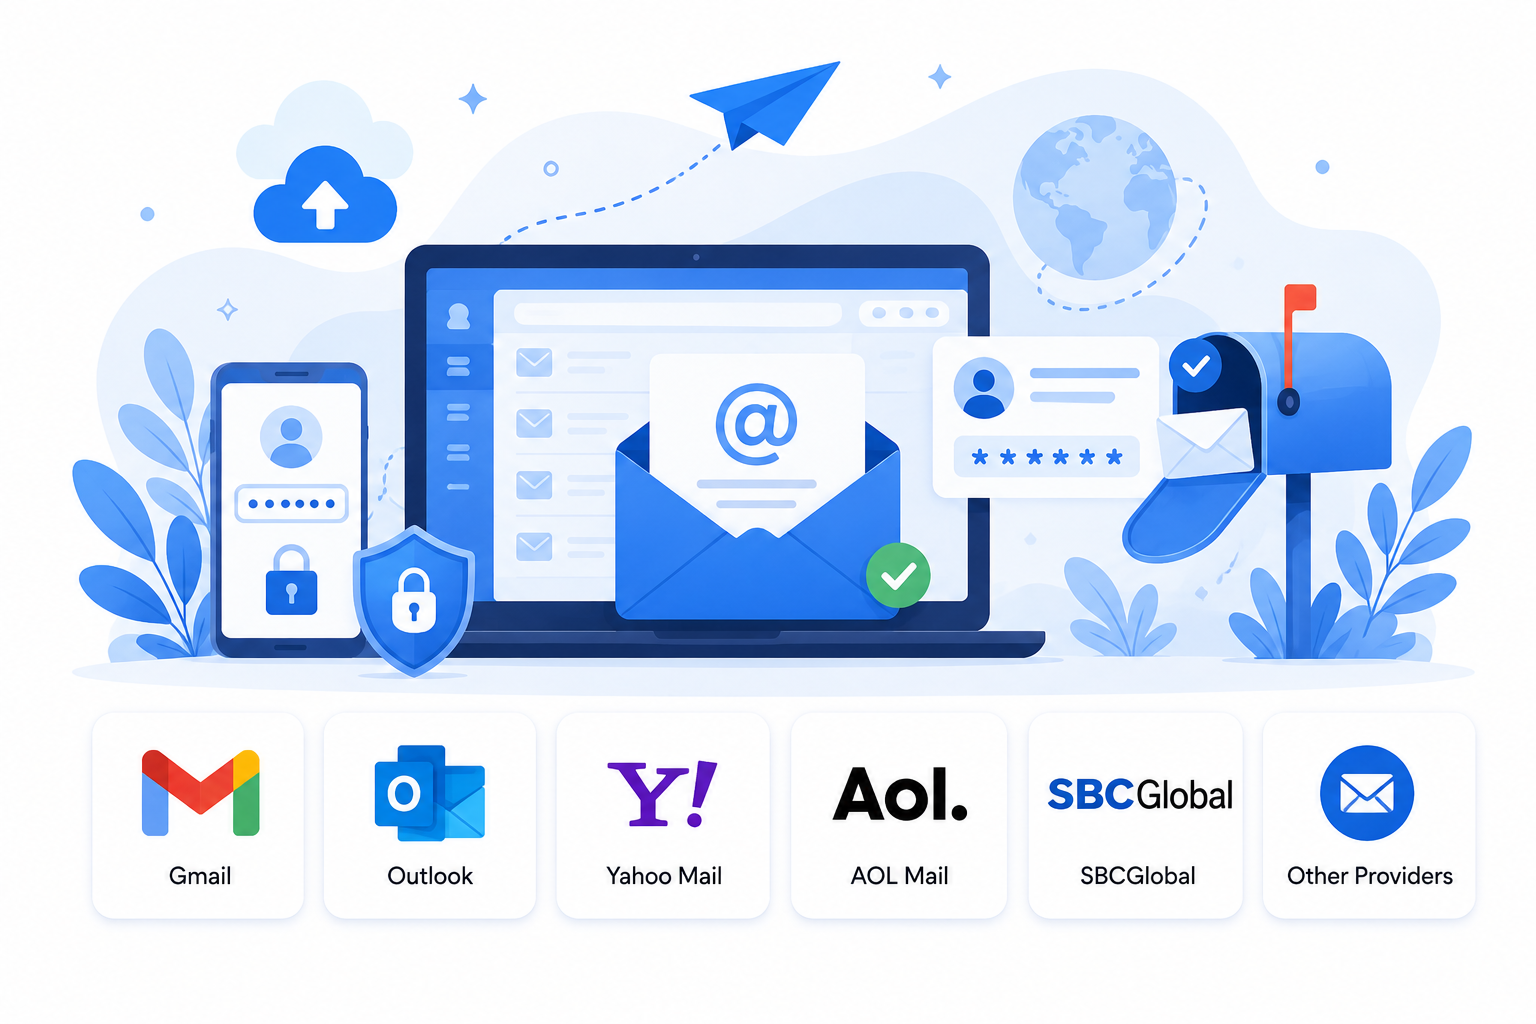
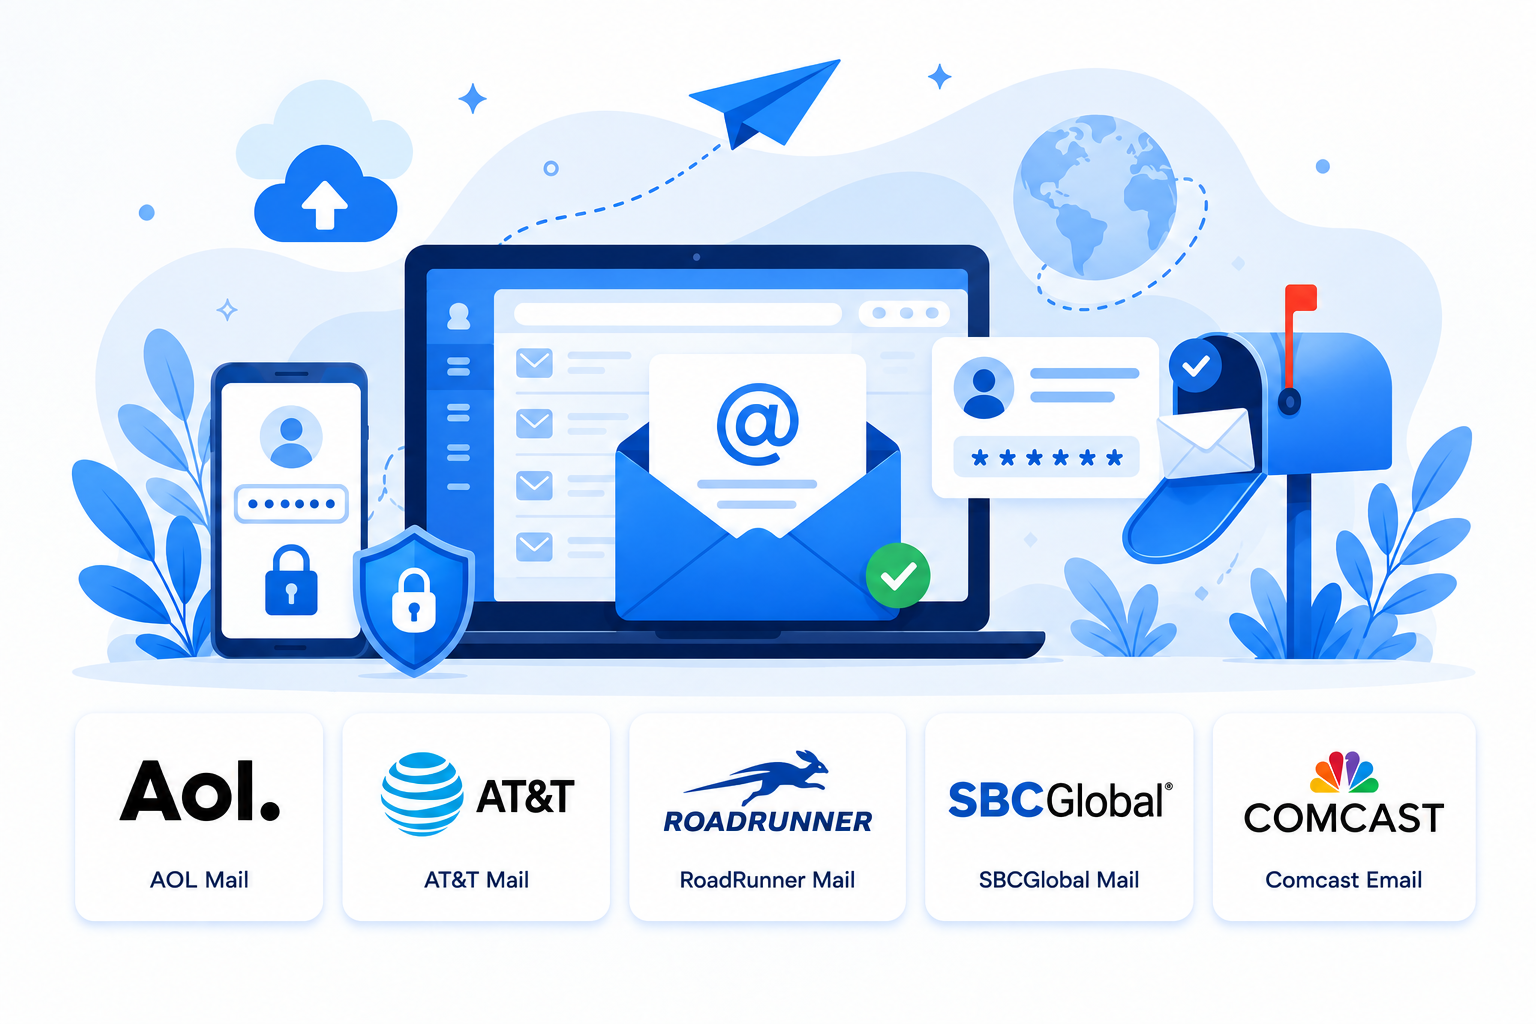
Revamp homepage copy and provider data

diff --git a/components/home/HowItWorks.tsx b/components/home/HowItWorks.tsx
@@ -5,33 +5,41 @@ import React from 'react';
 
 
 import {
+  FileText,
   Search,
-  BookOpen,
-  ShieldCheck,
+  Mail,
+  User,
   ArrowRight,
 } from "lucide-react";
 
 const steps = [
   {
-    number: "01",
+    number: "1",
+    icon: FileText,
+    title: "Describe Your Issue",
+    description:
+      "Tell us what happened and which email provider you use.",
+  },
+  {
+    number: "2",
     icon: Search,
-    title: "Choose Your Email Provider",
+    title: "Expert Reviews Request",
     description:
-      "Select the email provider or topic related to your account issue.",
+      "Our team reviews your case and provides the best solution.",
   },
   {
-    number: "02",
-    icon: BookOpen,
-    title: "Follow the Recovery Guide",
+    number: "3",
+    icon: Mail,
+    title: "Receive Recovery Guidance",
     description:
-      "Read the step-by-step instructions for password reset, login issues, or account recovery.",
+      "Get step-by-step instructions tailored to your situation.",
   },
   {
-    number: "03",
-    icon: ShieldCheck,
-    title: "Secure Your Account",
+    number: "4",
+    icon: User,
+    title: "Regain Access",
     description:
-      "Review recommended security practices to help keep your email account protected.",
+      "Follow the guidance and get back to your account.",
   },
 ];
 
@@ -49,19 +57,18 @@ export default function HowItWorks() {
           </span>
 
           <h2 className="mt-6 text-4xl font-bold text-slate-900 lg:text-5xl">
-            Get Started in Three Simple Steps
+            Getting Back to Your Email Is Simple
           </h2>
 
           <p className="mt-6 text-lg leading-8 text-slate-600">
-            Quickly find the right guidance for recovering access to your email
-            account and improving its security.
+            Follow these 4 easy steps.
           </p>
 
         </div>
 
         {/* Steps */}
 
-        <div className="grid gap-10 lg:grid-cols-3">
+        <div className="grid gap-6 lg:grid-cols-4">
 
           {steps.map((step, index) => {
 
@@ -75,13 +82,13 @@ export default function HowItWorks() {
 
                 {/* Step Number */}
 
-                <div className="absolute right-8 top-8 text-5xl font-extrabold text-blue-100">
+                <div className="absolute left-6 top-0 flex h-9 w-9 items-center justify-center rounded-full bg-blue-600 text-lg font-bold text-white">
                   {step.number}
                 </div>
 
                 {/* Icon */}
 
-                <div className="mb-8 flex h-16 w-16 items-center justify-center rounded-2xl bg-blue-100">
+                <div className="mb-8 flex h-16 w-16 items-center justify-center rounded-full bg-blue-100">
                   <Icon className="text-blue-600" size={30} />
                 </div>
 
@@ -101,10 +108,7 @@ export default function HowItWorks() {
 
                 {index < steps.length - 1 && (
                   <div className="absolute -right-5 top-1/2 hidden -translate-y-1/2 lg:block">
-                    <ArrowRight
-                      size={36}
-                      className="text-blue-300"
-                    />
+                    <ArrowRight size={30} className="text-blue-300" />
                   </div>
                 )}
 

diff --git a/data/providers.ts b/data/providers.ts
@@ -1,50 +1,47 @@
 export const providers = [
   {
     id: 1,
-    slug: "account-recovery",
-    name: "Account Recovery",
-    image: "/images/provider-gmail.png",
+    slug: "aol-mail",
+    name: "AOL Mail",
+    image: "/images/provider-aol.png",
     description:
-      "Learn how to regain access to your email account using official recovery methods.",
+      "Get help with AOL Mail account recovery, password reset, login issues, and email access.",
+    url: "https://sbcmailme.com/aol-mail",
   },
   {
     id: 2,
-    slug: "password-reset",
-    name: "Password Reset",
-    image: "/images/provider-outlook.png",
+    slug: "att-mail",
+    name: "AT&T Mail",
+    image: "/images/provider-att.png",
     description:
-      "Educational guides for resetting your email password safely.",
+      "Find guidance for AT&T Mail login, password recovery, account access, and common email issues.",
+    url: "https://sbcmailme.com/att-mail",
   },
   {
     id: 3,
-    slug: "login-help",
-    name: "Login Help",
-    image: "/images/provider-yahoo.png",
+    slug: "sbc-global-mail",
+    name: "SBCGlobal Mail",
+    image: "/images/provider-sbcglobal.png",
     description:
-      "Help with email sign-in and authentication issues.",
+      "Get assistance with SBCGlobal email login, password recovery, account access, and email problems.",
+    url: "https://sbcmailme.com/sbc-global-mail",
   },
   {
     id: 4,
-    slug: "email-security",
-    name: "Email Security",
-    image: "/images/provider-aol.png",
+    slug: "road-runner-mail",
+    name: "RoadRunner Mail",
+    image: "/images/provider-road-runner.png",
     description:
-      "Learn best practices to protect your email account from unauthorized access.",
+      "Find helpful information for RoadRunner email login, password reset, account recovery, and access issues.",
+    url: "https://sbcmailme.com/road-runner-mail",
   },
   {
     id: 5,
-    slug: "account-settings",
-    name: "Account Settings",
-    image: "/images/provider-icloud.png",
+    slug: "comcast",
+    name: "Comcast Email",
+    image: "/images/provider-comcast.png",
     description:
-      "Understand common email account settings and configuration options.",
-  },
-  {
-    id: 6,
-    slug: "email-guides",
-    name: "Email Guides",
-    image: "/images/provider-sbcglobal.png",
-    description:
-      "Helpful educational resources covering common email account topics.",
+      "Get guidance for Comcast email login, password recovery, account access, and common email issues.",
+    url: "https://sbcmailme.com/comcast",
   },
 ];

diff --git a/components/providers/ProviderCard.tsx b/components/providers/ProviderCard.tsx
@@ -8,6 +8,7 @@ interface Provider {
   name: string;
   image: string;
   description: string;
+  url: string;
 }
 
 export default function ProviderCard({
@@ -32,7 +33,7 @@ export default function ProviderCard({
 
       <div className="p-8">
 
-        <h3 className="text-2xl font-bold">
+        <h3 className="text-2xl font-bold text-slate-900">
           {provider.name}
         </h3>
 
@@ -41,11 +42,11 @@ export default function ProviderCard({
         </p>
 
         <Link
-          href={`/providers/${provider.slug}`}
-          className="mt-6 inline-flex items-center font-semibold text-blue-600"
+          href={provider.url}
+          className="mt-6 inline-flex items-center font-semibold text-blue-600 transition hover:text-blue-700"
         >
           Learn More
-          <ArrowRight className="ml-2 h-5 w-5" />
+          <ArrowRight className="ml-2 h-5 w-5 transition-transform group-hover:translate-x-1" />
         </Link>
 
       </div>

diff --git a/components/home/Hero.tsx b/components/home/Hero.tsx
@@ -194,9 +194,9 @@ export default function Hero() {
               </div>
 
               <h1 className="mt-4 text-3xl font-extrabold leading-snug text-slate-900 md:text-4xl lg:text-5xl">
-                Recover Your
+                Locked Out of
                 <span className="block text-blue-600">
-                  Email Account Securely
+                 Your Email?
                 </span>
               </h1>
 

diff --git a/components/home/Providers.tsx b/components/home/Providers.tsx
@@ -72,9 +72,7 @@ export default function Providers() {
               </p>
 
               <Link
-                href={`/providers/${provider.name
-                  .toLowerCase()
-                  .replace(/\s+/g, "-")}`}
+                href={provider.url}
                 className="mt-8 inline-flex items-center gap-2 font-semibold text-blue-600 transition hover:gap-3"
               >
                 Learn More
